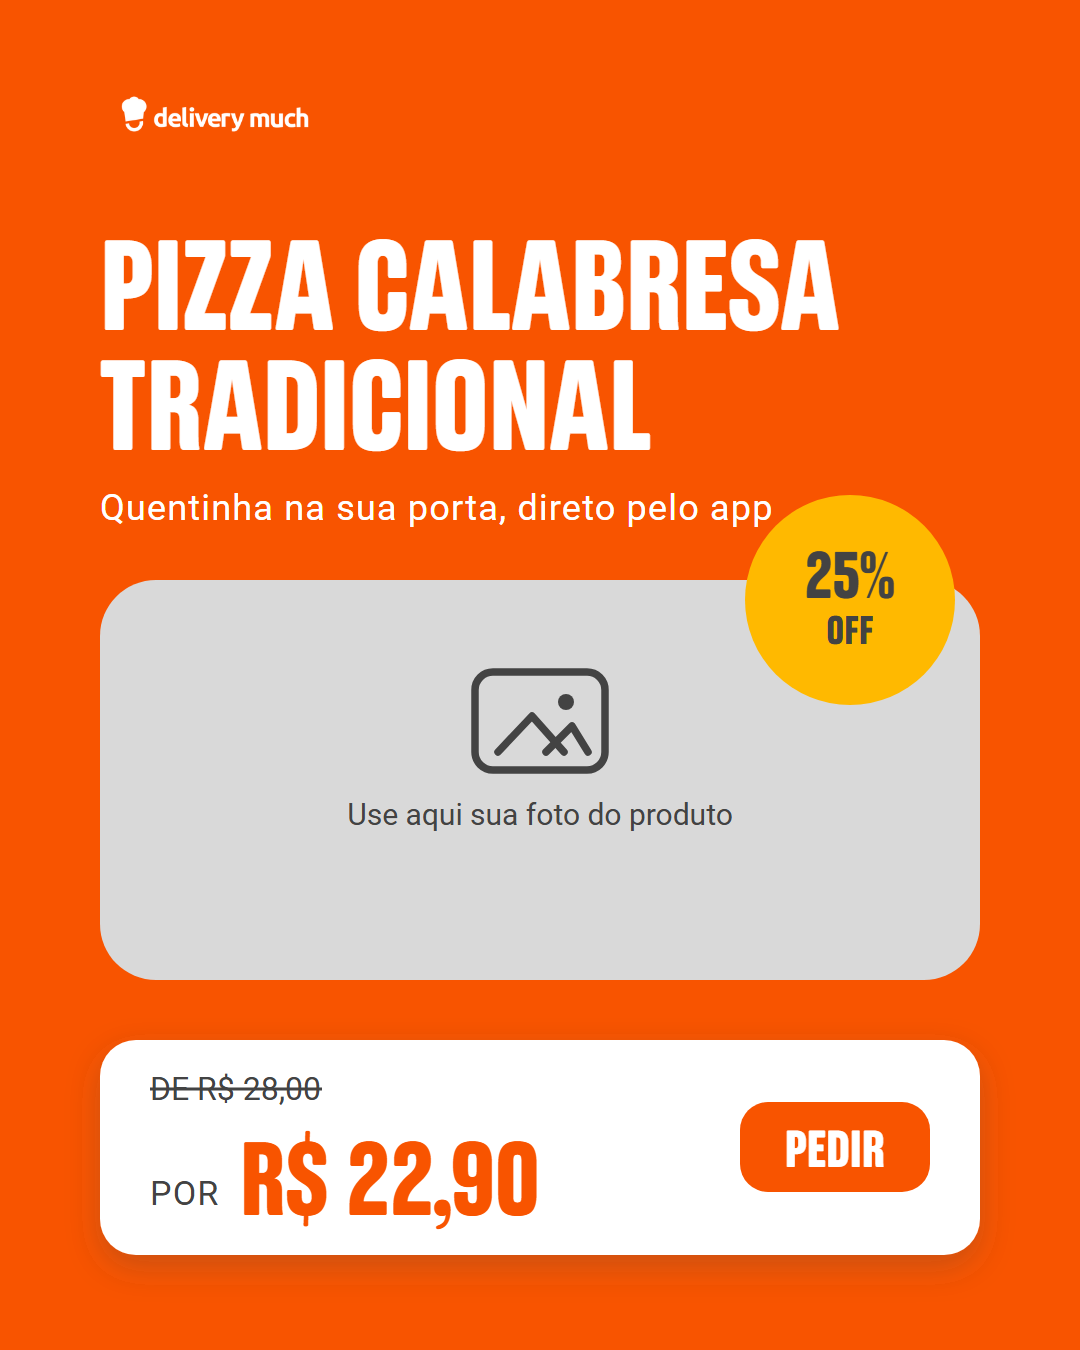
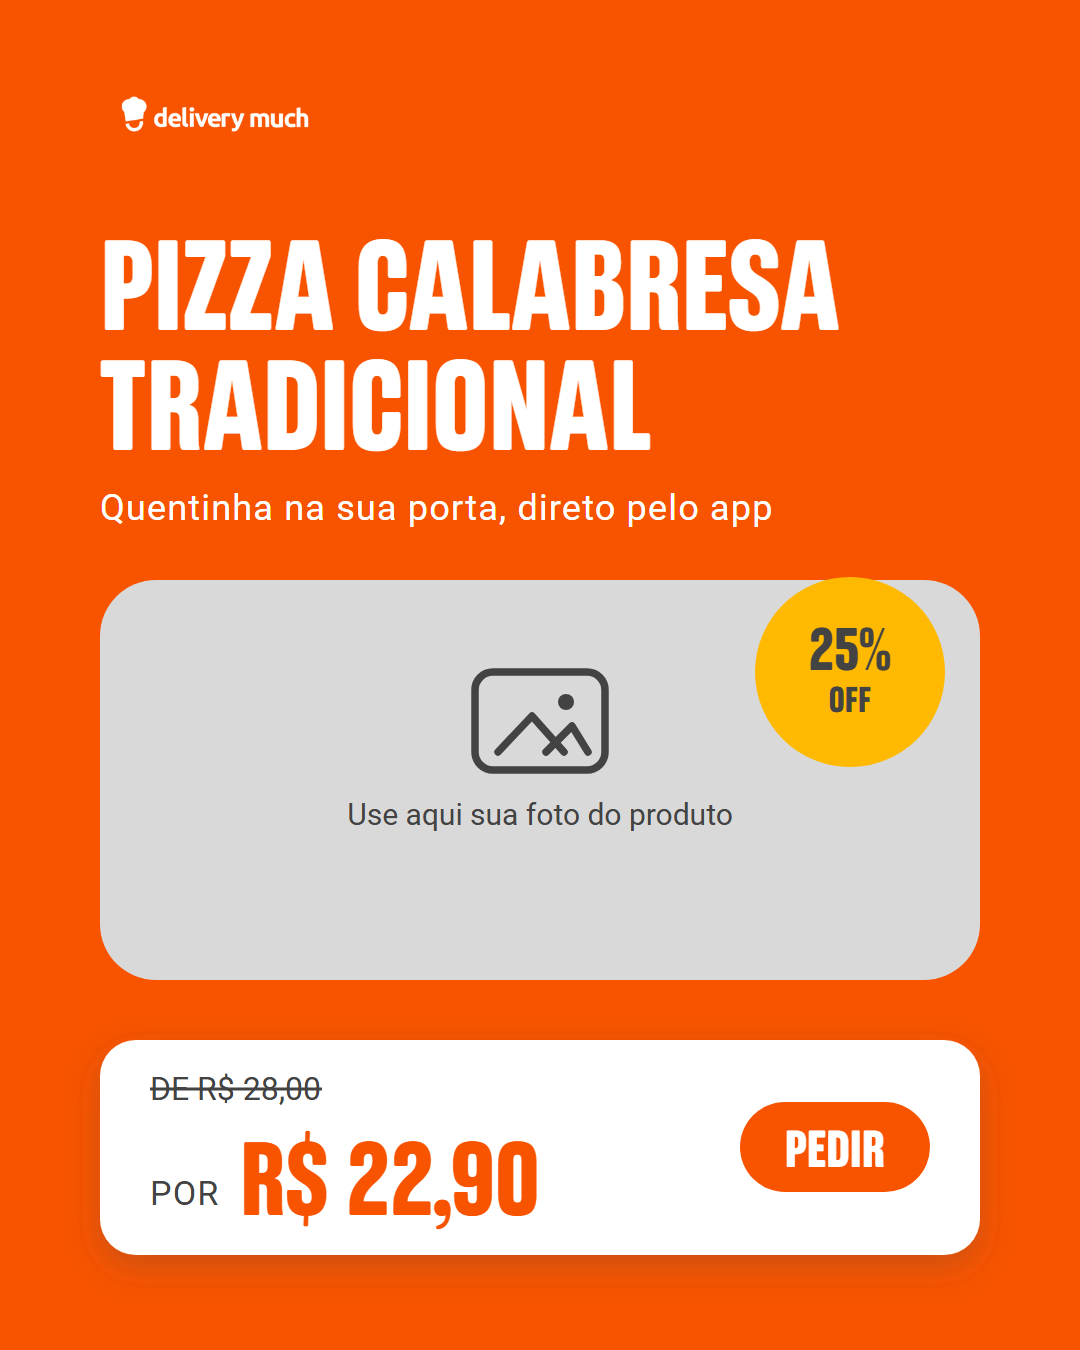
feat(skills): luma-creative so aceita slot de foto em retangulo (arco e circulo proibidos)
- SKILL.md: forma do slot = retangulo rx=56 em qualquer proporcao; logo da loja continua circular; retangulo que sangra;
  repertorio de topologias atualizado
- removidos slot-foto-produto-arco/circulo e moldura-arco-superior
- lint-art.js: reprova slot de foto em circulo/elipse/arco, texto invadindo o slot e aro branco como token de raio
- artes do refino 03, 04, 08 a 13 regeneradas com slots retangulares

diff --git a/scripts/lint-art.js b/scripts/lint-art.js
@@ -42,7 +42,7 @@ const COLETA = `(async () => {
   });
   const shapes = [...svg.querySelectorAll('rect,circle,ellipse,path')].filter(s => noDefs(s) && !s.closest('#pattern-ancorado') && !s.closest('[mask]')).map(s => {
     const cs = getComputedStyle(s);
-    return { tag: s.tagName.toLowerCase(), fill: cs.fill, fillOp: parseFloat(cs.fillOpacity), op: parseFloat(cs.opacity), box: rel(s), rx: parseFloat(s.getAttribute('rx') || 0), grupo: (s.closest('[id]') || {}).id || '' };
+    return { tag: s.tagName.toLowerCase(), fill: cs.fill, fillOp: parseFloat(cs.fillOpacity), op: parseFloat(cs.opacity), box: rel(s), rx: parseFloat(s.getAttribute('rx') || 0), grupo: (s.closest('[id]') || {}).id || '', d: s.getAttribute('d') || '' };
   });
   return JSON.stringify({ w: r0.width, h: r0.height, texts, shapes, imgs: [...svg.querySelectorAll('image')].map(rel) });
 })()`;
@@ -155,12 +155,23 @@ async function lint(svgPath, formato) {
       else if (g.dist < 40) A(`Selo a ${Math.round(g.dist)}px do texto "${t.txt}" (mín. 40).`);
     });
   });
+  // texto x slot de foto/logo: sem colisão e com ≥ 40px de ar
+  textos.filter(t => !(t.cont && t.cont.tag === 'circle')).forEach(t => slots.forEach(sl => { // texto dentro de selo (círculo) pode sobrepor a foto
+    const g = gap(t.ink, sl.box);
+    if (g.overlap) E(`"${t.txt}" invade o slot de foto/logo.`);
+    else if (g.dx < 40 && g.dy < 40 && g.dist < 40) A(`"${t.txt}" a ${Math.round(g.dist)}px do slot de foto (mín. 40).`);
+  }));
   // selo de desconto tem de estar PRESO ao preço ou ao hero (≤ 200px), nunca solto
   selos.forEach(sl => {
-    const alvos = textos.filter(t => ['preco', 'produto'].includes(t.grupo));
+    const alvos = textos.filter(t => ['preco', 'produto'].includes(t.grupo) || (t.fs >= 34 && !t.cont));
     if (!alvos.length) return;
     const dmin = Math.min(...alvos.map(t => gapCirculo(sl.box, t.ink).dist));
     if (dmin > 200) A(`Selo solto: a ${Math.round(dmin)}px do preço/hero mais próximo (máx. 200). Prenda o selo ao preço ou ao título.`);
+  });
+  // slot de FOTO só retângulo (arco/círculo/elipse proibidos); logo da loja pode ser círculo
+  d.shapes.filter(x => x.grupo === 'foto_produto').forEach(x => {
+    if ((x.tag === 'circle' || x.tag === 'ellipse') && x.box.w >= 120) E('Slot de foto em círculo/elipse: só retângulo (§3.2). Logo da loja é a única exceção circular.');
+    if (x.tag === 'path' && /[Aa]\s*[\d.]+[\s,]+[\d.]+\s+[\d.]+\s+[01][\s,]*[01]/.test(x.d) && x.box.w * x.box.h > 300 * 300) E('Slot de foto em arco/cúpula (path com arco): só retângulo (§3.2).');
   });
   const foto = slots.filter(s => s.grupo === 'foto_produto').sort((a, b) => b.box.w * b.box.h - a.box.w * a.box.h)[0];
   if (foto && foto.box.w >= 300) {
@@ -195,7 +206,8 @@ async function lint(svgPath, formato) {
   // raios: foto 56 | card 36 | botão = pílula
   d.shapes.filter(s => s.tag === 'rect' && s.rx > 0 && !(s.box.w >= W - 2) && !['foto_produto', 'logo_loja'].includes(s.grupo) || (s.tag === 'rect' && ['foto_produto'].includes(s.grupo) && s.box.w > 300)).forEach(s => {
     const pilula = Math.abs(s.rx - s.box.h / 2) < 1.5;
-    if (![56, 36].includes(Math.round(s.rx)) && !pilula) A(`Raio ${s.rx} fora dos tokens (56 foto, 36 card, pílula = h/2): bloco ${Math.round(s.box.w)}×${Math.round(s.box.h)}.`);
+    const aro = s.rx >= 68 && s.rx <= 80 && hex(s.fill) === 'FFFFFF'; // aro branco concêntrico ao slot (rx = 56 + aro)
+    if (![56, 36].includes(Math.round(s.rx)) && !pilula && !aro) A(`Raio ${s.rx} fora dos tokens (56 foto, 36 card, pílula = h/2): bloco ${Math.round(s.box.w)}×${Math.round(s.box.h)}.`);
   });
 
   // alinhamento: um eixo só entre os textos soltos

diff --git a/.agents/skills/luma-creative/SKILL.md b/.agents/skills/luma-creative/SKILL.md
@@ -162,7 +162,7 @@ Use **somente se as 4 condições forem verdadeiras**:
 Qualquer condição falsa → **arte clean: fundo liso `#F85400` ou `#FF9000`, sem pattern, sem arcos.** É uma composição completa e correta, não uma peça "faltando coisa". Composição clean é a escolha **padrão** quando o layout já está cheio.
 
 **PASSO 2 — Defina a zona e as caixas de texto**
-* **Âncora** = o maior bloco gráfico. A **zona** é a região onde os sorrisos podem ficar: **elipse** (`ellipse:cx,cy,rx,ry`) para âncora redondo/arco, **retângulo** (`rect:x,y,w,h`) para âncora retangular, ticket ou foto lateral. Faça a zona **generosa e do lado oposto ao texto**; pode passar das bordas do canvas (o pattern pode sangrar).
+* **Âncora** = o maior bloco gráfico. A **zona** é a região onde os sorrisos podem ficar: **elipse** (`ellipse:cx,cy,rx,ry`) para âncora redondo (logo de parceiro), **retângulo** (`rect:x,y,w,h`) para âncora retangular, ticket ou foto lateral. Faça a zona **generosa e do lado oposto ao texto**; pode passar das bordas do canvas (o pattern pode sangrar).
 * **Caixas de texto** (`x,y,w,h`): uma para **cada** hero, apoio, preço, CTA, logo DM e legal. O script mantém **30px** de distância delas.
 
 **PASSO 3 — Rode o script (decide a posição; a IA não deliberar)**
@@ -189,40 +189,38 @@ node scripts/pattern-ancorado.js --canvas 1080x1350 \
 * **Um pattern por peça.** Pattern + arcos tone-on-tone + selo grande + foto com sombra pesada na mesma região é ruído: máximo um grafismo de fundo.
 * **Branco nunca atrás de texto branco** e **preço, código de cupom e CTA nunca sobre pattern**: já garantido pelas caixas de texto; confira no print.
 * **Story:** o pattern pode ocupar as faixas proibidas (250px de topo/base) — são fundo, não conteúdo.
-* **Exemplos aprovados:** `referencias/referencia-cupom-foto-arco.png` (pattern só atrás do cupom, à esquerda; copy à direita limpa) e o Festival Gastronômico do refino (pattern em volta da moldura em arco; texto de baixo limpo).
+* **Exemplos aprovados:** `referencias/referencia-cupom-foto-arco.png` (pattern só atrás do cupom, à esquerda; copy à direita limpa) e o Festival Gastronômico do refino (pattern em volta da moldura; texto de baixo limpo).
 
 ### 🖼 3.2 Placeholder de Foto e Logo — SVG Padrão (reaproveitar, nunca recriar)
 
 Onde a foto do produto, da loja ou o logo do parceiro vai entrar, a arte mostra **sempre o mesmo placeholder**: um bloco em **cinza claro `#D9D9D9`** com **ícone e texto em cima em `#434343`**. É o padrão das artes oficiais (`referencias/referencia-cupom-foto-arco.png`, `grade-variacoes-templates.png`).
 
 * **`#D9D9D9` é a única exceção à paleta fechada** e **só vale para o slot** (foto/logo). Nunca como fundo decorativo, card, divisória ou texto. O slot é substituído pela foto real no Luma; o cinza não aparece na arte publicada.
-* **SVGs padrão em `assets/placeholders/`** — copie o `<g id="foto_produto">` (ou `id="logo_loja"`) do arquivo e altere **apenas posição e dimensão**. **Não redesenhe, não troque a cor, o raio, o ícone ou o texto**. O que pode variar por forma:
-  * **Retângulo:** largura e altura livres; `rx` fixo em `56`.
-  * **Arco:** largura livre (raio do topo = largura ÷ 2) e altura livre.
-  * **Círculo e logo da loja:** só o diâmetro.
+* **FORMA DO SLOT DE FOTO: SÓ RETÂNGULO.** A foto do produto, do prato, da loja ou do evento é **sempre um retângulo** com `rx=56`, em **qualquer largura, altura e proporção** (paisagem, retrato, quadrado, faixa larga). ⛔ **Proibido** slot de foto em **arco/cúpula/domo, círculo, elipse** ou qualquer outra forma. **Única exceção:** o **logo da loja/parceiro** continua circular (`slot-logo-loja.svg`), como nas artes oficiais.
+* **SVGs padrão em `assets/placeholders/`** — copie o `<g id="foto_produto">` (ou `id="logo_loja"`) do arquivo e altere **apenas posição e dimensão**. **Não redesenhe, não troque a cor, o raio, o ícone ou o texto**:
+  * **Retângulo:** largura e altura livres; `rx` fixo em `56` (miniaturas < 300px usam `rx=36`).
+  * **Logo da loja:** só o diâmetro (≥ 220px).
   * **Ícone e texto nunca escalam** (ficam no tamanho do arquivo, sempre centralizados no slot) — assim a legenda continua legível.
-  * **Foto sangrando nas bordas** (encostando no canvas, com curva só em um lado): pode recortar a forma do slot, mantendo **o mesmo cinza, ícone e texto**.
+  * **Retângulo que sangra pelas bordas do canvas** (encostando em um ou mais lados): os **cantos arredondados ficam só nos lados que permanecem dentro do canvas**; os lados que sangram seguem para fora (o `rx` desses cantos fica fora da arte). Mesmo cinza, ícone e texto.
 
   | Arquivo | Uso | Texto fixo |
   | :--- | :--- | :--- |
-  | `slot-foto-produto-retangulo.svg` (880×560, `rx=56`) | foto do produto/prato/fachada em bloco | "Use aqui sua foto do produto" |
-  | `slot-foto-produto-arco.svg` (600×760, topo em arco) | foto em arco/cúpula | idem |
-  | `slot-foto-produto-circulo.svg` (560×560) | foto circular | idem |
+  | `slot-foto-produto-retangulo.svg` (880×560, `rx=56`) | **toda** foto de produto/prato/fachada/evento, em qualquer proporção | "Use aqui sua foto do produto" |
   | `slot-logo-loja.svg` (220×220, círculo) | logo/foto da loja ou do parceiro | "Logo da loja" |
 
 * **Texto do slot:** `Roboto Regular 400`, **≥ 28px** (≥ 24px no logo da loja), `#434343`, centralizado abaixo do ícone. Só os textos fixos da tabela. Para foto de loja/evento use "Use aqui sua foto da loja" / "Use aqui a foto do evento" **trocando só a frase**, mantendo o mesmo SVG.
 * **Slot pequeno (< 300px, miniatura em lista/card):** mesmo cinza `#D9D9D9`, ícone reduzido a ~60% e legenda curta em 2 linhas **"Foto do" / "produto"**, Roboto 400 **≥ 24px**. Slots ≥ 300px usam o texto fixo completo.
 * **Slot que sangra pela borda do canvas:** ícone e legenda ficam **centralizados na parte visível** do slot, nunca cortados pela borda.
 * **Mantenha o `id`** (`foto_produto` / `logo_loja`): é o gancho que o Luma usa para trocar pela imagem real.
-* **Variações de forma** (retângulo, arco, círculo) valem; **variações de cor não**. Moldura/aba ao redor do slot continua com as regras de paleta (`#434343`, branco ou `#FFB900`).
+* **Variam só as proporções do retângulo; a cor, o raio e a forma não.** Moldura/aba/aro ao redor do slot segue as regras de paleta (`#434343`, branco ou `#FFB900`). O `lint-art.js` reprova slot de foto em círculo, elipse ou arco.
 * **Tamanho mínimo:** logo da loja ≥ **220px**; foto ≥ **35%** da largura do canvas (senão não dá para ler a legenda).
 * Proibido: texto branco sobre o slot cinza, ícone em outra cor, placeholder em `#434343` escuro (padrão antigo, abandonado), legenda inventada ("Slot de alta resolução…").
 
 ### 📷 3.3 Foto Real do Produto (quando a foto entrar no slot)
 
 O placeholder `#D9D9D9` (§3.2) reserva o espaço; a foto real do franqueado entra **no mesmo lugar e na mesma forma**. *(Regras abaixo ainda a validar com fotos reais: testar com ~6 fotos, recortadas e com fundo.)*
-* **Mecânica:** a `<image>` entra **dentro do `<g id="foto_produto">`**, recortada pela forma do slot (`clipPath` com o mesmo `path`/`rect`/`circle`) e com `preserveAspectRatio="xMidYMid slice"`. **Mantenha o `id`.**
-* **Foto com fundo:** preenche o slot inteiro. Sobre fundo laranja, um **aro branco de 12–24px** em volta do slot (como nos círculos das artes 04 e 06) separa a foto do fundo.
+* **Mecânica:** a `<image>` entra **dentro do `<g id="foto_produto">`**, recortada pela forma do slot (`clipPath` com o mesmo `rect` e o mesmo `rx`) e com `preserveAspectRatio="xMidYMid slice"`. **Mantenha o `id`.**
+* **Foto com fundo:** preenche o slot inteiro. Sobre fundo laranja, um **aro branco de 12–24px** (retângulo branco concêntrico com `rx = 56 + aro`) em volta do slot separa a foto do fundo.
 * **Produto recortado (PNG sem fundo):** pode **vazar** da moldura por cima (efeito *pop-out*): **15–25% do produto** passa da borda do slot, **sem cortar o sujeito**. Uma única sombra suave embaixo (`#434343`, opacidade `0.25`, `dy=20`, `stdDeviation=24`).
 * **Selo e tag nunca cobrem o sujeito:** mantenha livre o centro e o terço com o produto; o selo vai no canto, ≤ 35% da largura da foto, a ≥ 40px de qualquer texto.
 * **Sem pattern atrás do produto:** o pattern vive no halo em volta do âncora (§3.1); atrás da foto ele fica escondido de qualquer forma.
@@ -241,7 +239,7 @@ A skill organiza seus recursos nas seguintes pastas:
 │   (templates prontos já gerados: `assets/templates/` na raiz do repo; geradores em `scripts/generate-10-templates.js`)
 │   ├── logos/                        <- Logos oficiais DM (branca, laranja, símbolo)
 │   ├── placeholders/                 <- SVGs PADRÃO do slot de foto/logo (cinza #D9D9D9) — reaproveitar, §3.2
-│   ├── molduras/                     <- Molduras de foto (com aba de ícone ou domo), já no cinza #D9D9D9
+│   ├── molduras/                     <- Moldura retangular de foto com aba de ícone, já no cinza #D9D9D9
 │   ├── cards-preco/                  <- Card branco flutuante e tickets de cupom
 │   ├── selos/                        <- Badges oficiais de campanha ("Mais Vendidos", parceiros)
 │   ├── grafismos/                    <- Sorrisos oficiais DM (pattern.ai original + pattern-dm-oficial.svg) + pattern-ancorado.svg (técnica padrão da §3.1)
@@ -251,7 +249,7 @@ A skill organiza seus recursos nas seguintes pastas:
     ├── grade-variacoes-templates.png <- Grade com 6 composições reais de referência
     ├── referencia-clean-ryan.png     <- Referência autoral com foco clean
     ├── referencia-cupom-feed.png     <- Referência com voucher de cupom e selo amarelo
-    ├── referencia-cupom-foto-arco.png<- Referência com foto em arco e selo circular
+    ├── referencia-cupom-foto-arco.png<- Referência de PATTERN ancorado (cupom à esquerda). Atenção: o slot em arco dela está PROIBIDO hoje (§3.2)
     └── template-clean-feed.svg       <- SVG paramétrico oficial montado
 ```
 
@@ -290,7 +288,7 @@ Antes de escrever uma única linha de código, a IA **DEVE abrir e inspecionar v
 
 > ⚠ **LIBERDADE COMPOSICIONAL TOTAL:**  
 > **NUNCA engesse a arte numa receita de bolo repetitiva** (tipo *"título sempre em cima, foto sempre no meio, rodapé sempre embaixo"*). A IA deve explorar composições visuais variadas e dinâmicas inspiradas no repertório de `referencias/`:
-> * Às vezes a foto do produto/loja fica no topo (em arco/domo) e o título + preço ficam na base.
+> * Às vezes a foto do produto/loja fica no topo (em retângulo, sangrando ou não) e o título + preço ficam na base.
 > * Às vezes o voucher/cupom é o protagonista central com foto de apoio.
 > * Às vezes a foto domina o centro com cards satélites e tags flutuantes.
 > * Às vezes a logo Delivery Much entra no topo e a oferta fecha a base.
@@ -313,7 +311,7 @@ Antes de escrever uma única linha de código, a IA **DEVE abrir e inspecionar v
     * Zona proibida de base: últimos `250px` (reservado para barra de resposta/compartilhar).
     * Conteúdo útil concentrado na faixa central (`y = 260` até `y = 1660`), mantendo o mesmo respiro calculado entre blocos.
 
-* **Repertório de topologias aprovadas** (modelos prontos em `assets/templates/refino/`; use como ponto de partida e varie, não copie): foto circular sangrando + preço-herói (`refino_09`, feed); **lista de ofertas em cards** com miniaturas (`refino_10`, story); **etiqueta de preço inclinada** sobre foto em arco (`refino_11`, feed); **detalhes em pílulas + preço em linha + selo preso ao preço** (`refino_12`, story); **split diagonal em dois tons** com o preço na área `#F85400` (`refino_13`, feed); além de cupom/ticket (`refino_02`), foto em arco com hero embaixo (`refino_03`), hero gigante com foto circular (`refino_04`) e foto lateral sangrando (`refino_07`). Para cada pedido, escolha a topologia pelo **objetivo** (§Fase 1) e **varie** em vez de repetir a última.
+* **Repertório de topologias aprovadas** (modelos prontos em `assets/templates/refino/`; ponto de partida para variar, não para copiar; **todos com foto em retângulo**): foto retangular sangrando à direita + preço-herói (`refino_09`, feed); **lista de ofertas em cards** com miniaturas (`refino_10`, story); **etiqueta de preço inclinada** sobre a foto (`refino_11`, feed); **foto larga + detalhes em pílulas + preço em linha com selo preso** (`refino_12`, story); **split diagonal em dois tons** com o preço na área `#F85400` (`refino_13`, feed); cupom/ticket (`refino_02`), foto retangular com hero embaixo (`refino_03`), hero gigante com foto quadrada (`refino_04`), foto lateral sangrando (`refino_07`), foto cheia no topo (`refino_05`) e foto retangular com selo (`refino_08`). Escolha a topologia pelo **objetivo** (Fase 1) e **varie as proporções do retângulo** (largo, alto, quadrado, faixa) em vez de repetir a última.
 
 ### FASE 3: Orquestração de Blocos do Inventário
 Puxe os elementos diretamente de `assets/`. **Isto é o inventário disponível, não uma ordem fixa** — use só o que a mensagem da peça pede (a ordem e a presença de cada bloco seguem a Fase 2):
@@ -393,6 +391,7 @@ Antes de finalizar a arte:
 | `DE R$` pequeno/fino e selo de desconto flutuando longe do preço (apontado pela revisão fria) | `DE` ≥ 40px branco 100% com risco de 4px; selo preso ao preço/hero (≤ 200px) |
 | Hero com tamanho "no olho" (sobra ou falta largura) | `node scripts/medir-texto.js` e usar a quebra recomendada |
 | Mistura de alinhamento (centro + esquerda) / valores de espaço e raio soltos | Um eixo por peça; tokens da §2.2; o `lint-art.js` avisa |
+| Slot de foto em arco/cúpula/círculo | **Só retângulo** (`rx=56`, qualquer proporção); logo da loja é a única exceção circular (§3.2) |
 | Selo a menos de 40px do texto de apoio | Mover o selo ou o texto até ter ≥ 40px |
 
 ---
